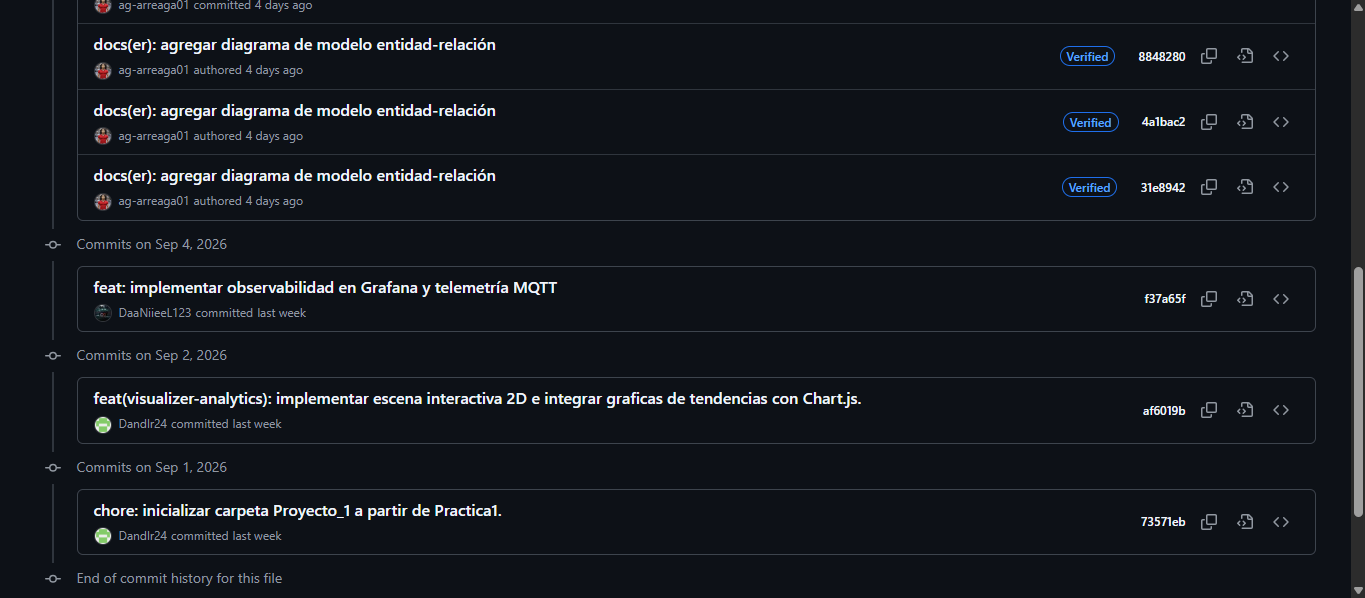
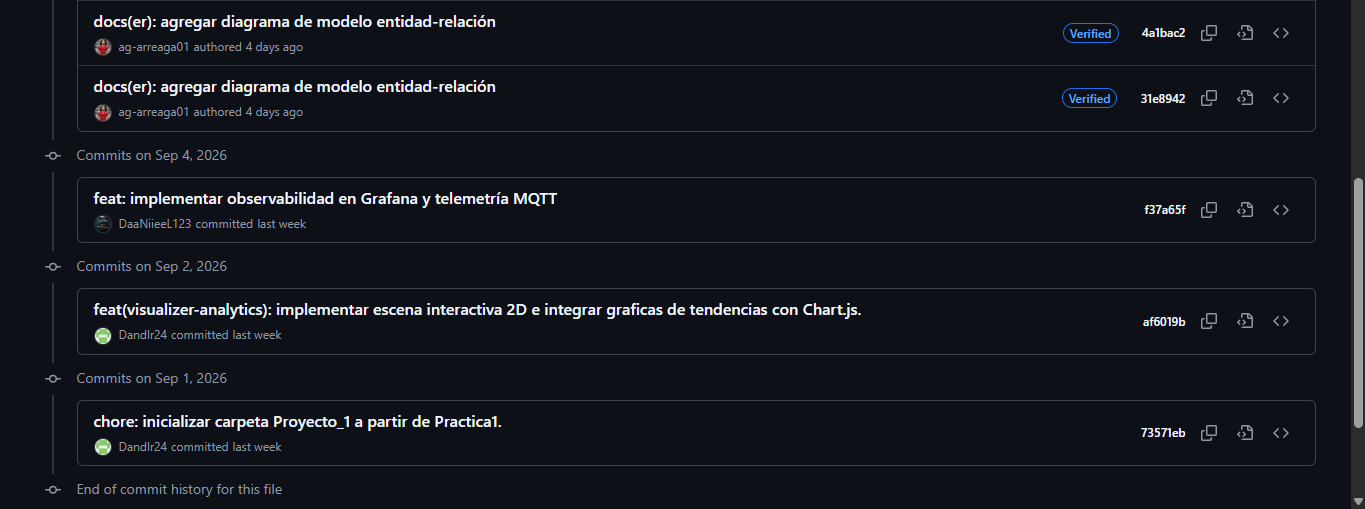
fix: corregir capturas de commits.

diff --git a/Proyecto_1/docs/ManualTecnico.md b/Proyecto_1/docs/ManualTecnico.md
@@ -350,7 +350,9 @@ docker exec -it smartegg-postgres-1 psql -U smartegg -d smartegg -c "SELECT * FR
 El campo `created_at` de los registros coincide con el timestamp de la inicialización original, confirmando que el volumen `postgres_data` conserva la información entre reinicios.
 
 
-## 10. Capturas de GitHub evidenciando los commits del equipo.
+## 10. Capturas de GitHub evidenciando los commits del equipo.  
+A continuación se presenta la evidencia del trabajo colaborativo del equipo en el repositorio de GitHub, verificando la participación activa y el registro de commits por parte de cada integrante:  
+
 ![captura-commits](imagenes/commits1.png)  
 ![captura-commits](imagenes/commits2.png)  
 
